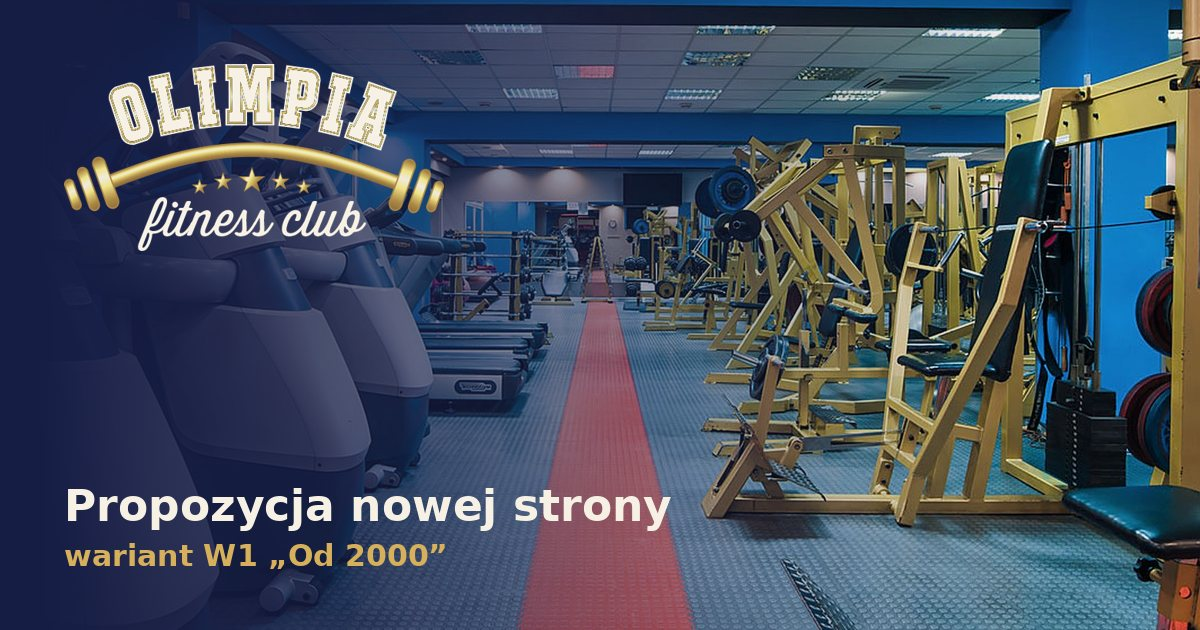
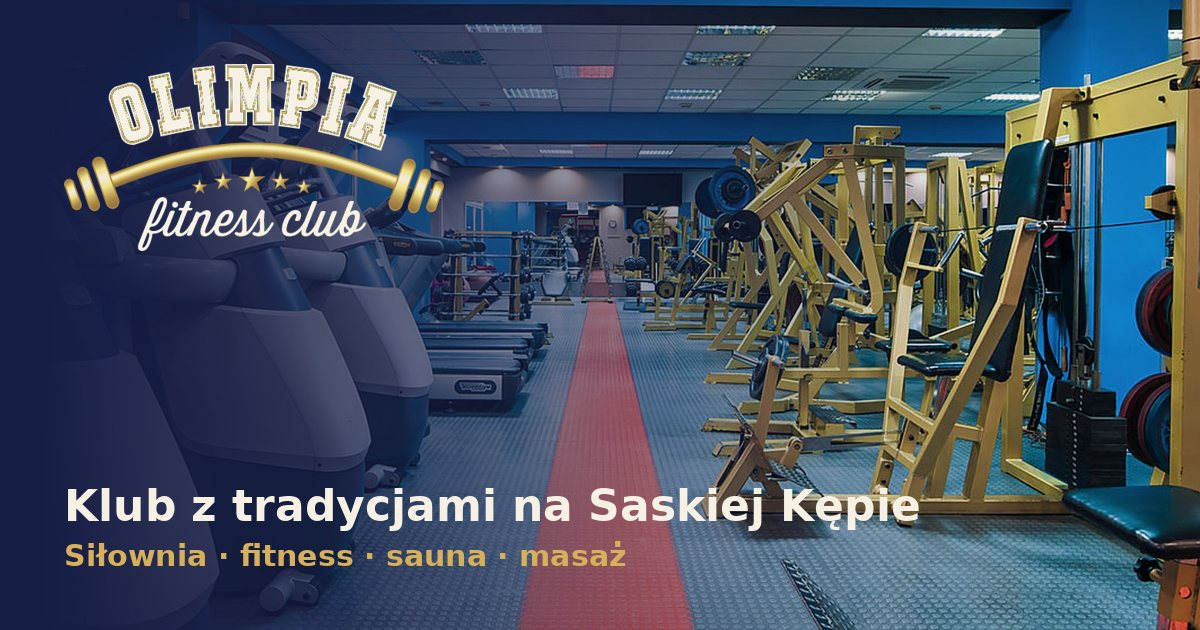
Olimpia: bez paska makiety, W1 jasne hero i grafitowe sekcje, W2 czerwone podswietlenia
Claude-Session: https://claude.ai/code/session_01LYNnrQKaKK6BP63vnqfLrJ

Changed region(s): [[0.0308, 0.754, 0.7708, 0.9048]]

diff --git a/p/olimpia-fitness-w1/index.html b/p/olimpia-fitness-w1/index.html
@@ -3,13 +3,13 @@
 <head>
 <meta charset="utf-8">
 <meta name="viewport" content="width=device-width,initial-scale=1">
-<title>Olimpia Fitness Club · makieta W1 „Od 2000”</title>
-<meta name="description" content="Propozycja nowej strony Olimpia Fitness Club: klub z tradycjami na Saskiej Kępie, siłownia, fitness, sauna i masaż od 2000 roku.">
+<title>Olimpia Fitness Club · siłownia, fitness i sauna na Saskiej Kępie</title>
+<meta name="description" content="Olimpia Fitness Club: klub z tradycjami na Saskiej Kępie w Warszawie. Siłownia, fitness, sauna, masaż i solarium od 2000 roku.">
 <meta name="robots" content="noindex,nofollow">
 <meta name="theme-color" content="#161d45">
 <meta property="og:type" content="website">
-<meta property="og:title" content="Olimpia Fitness Club · makieta W1 „Od 2000”">
-<meta property="og:description" content="Propozycja nowej strony Olimpia Fitness Club: klub z tradycjami na Saskiej Kępie, siłownia, fitness, sauna i masaż od 2000 roku.">
+<meta property="og:title" content="Olimpia Fitness Club · siłownia, fitness i sauna na Saskiej Kępie">
+<meta property="og:description" content="Olimpia Fitness Club: klub z tradycjami na Saskiej Kępie w Warszawie. Siłownia, fitness, sauna, masaż i solarium od 2000 roku.">
 <meta property="og:image" content="https://www.odnovastudio.com/p/olimpia-fitness-w1/a/og.jpg">
 <meta property="og:url" content="https://www.odnovastudio.com/p/olimpia-fitness-w1/">
 <link rel="icon" href="a/favicon.png" type="image/png">
@@ -108,33 +108,33 @@ html:not(.js) .mbar,.past-hero .mbar{transform:none}
 .foot .legal{grid-column:1/-1;display:flex;flex-wrap:wrap;gap:8px 24px;opacity:.7;font-size:.85rem;border-top:1px solid var(--line);padding-top:18px;margin-top:8px}
 @media(max-width:760px){.foot .wrap{grid-template-columns:1fr}}
 
-:root{--bg:#f3eee2;--bg2:#161d45;--ink:#161d45;--ink2:#f3eee2;--acc:#d3ab4e;--acc2:#e3c373;--onacc:#161d45;--gd:#755a12;--line:rgba(22,29,69,.2);--paper:#fffdf7;
---hdrbg:rgba(22,29,69,.96);--hdrbg2:#161d45;--hdrink:#f3eee2;--hdrline:rgba(243,238,226,.18);--disp:'Zilla Slab',Georgia,serif;--dispw:600;--sans:'Albert Sans',system-ui,sans-serif;--rad:3px}
+:root{--bg:#f3eee2;--bg2:#1c1a1e;--ink:#161d45;--ink2:#f3eee2;--acc:#d3ab4e;--acc2:#e3c373;--onacc:#161d45;--gd:#755a12;--line:rgba(22,29,69,.2);--paper:#fffdf7;
+--hdrbg:rgba(243,238,226,.97);--hdrbg2:#f3eee2;--hdrink:#161d45;--hdrline:rgba(22,29,69,.16);--disp:'Zilla Slab',Georgia,serif;--dispw:600;--sans:'Albert Sans',system-ui,sans-serif;--rad:3px}
 .sec{padding:clamp(60px,9vw,112px) 0}
 .sec.dark{background:var(--bg2);color:var(--ink2);--line:rgba(243,238,226,.22)}
 .h2{font-size:clamp(2.2rem,4.8vw,3.7rem);line-height:1.04;max-width:18ch;letter-spacing:.002em}
 .lead{font-size:clamp(1.06rem,1.4vw,1.24rem);max-width:56ch;margin-top:20px;opacity:.9}
 .btn.n,.sec:not(.dark) .btn.p,.form .btn.p{background:#161d45;color:#f3eee2}.btn.n:hover,.sec:not(.dark) .btn.p:hover,.form .btn.p:hover{background:#26306a}
-.dark .btn.g,.hero .btn.g{color:#f3eee2}
+.dark .btn.g{color:#f3eee2}
 .gold{color:var(--gd)}.dark .gold{color:var(--acc)}
 .arrow{display:inline-block;width:1.2em;height:.8em;vertical-align:-.05em;margin-left:.45em}
 a.more{display:inline-flex;align-items:center;font-weight:600;text-decoration:none;border-bottom:1.5px solid currentColor;padding-bottom:2px}
 /* HERO: obchód po klubie */
-.hero{position:relative;background:#161d45;color:#f6f1e4}
+.hero{position:relative;background:#f3eee2;color:#161d45}
 .js .hero{height:calc(100svh + 4 * 40svh)}
 .stage{position:sticky;top:0;height:100svh;min-height:560px;display:flex;flex-direction:column;padding-top:calc(var(--hdr-h,100px) + clamp(14px,2.4vh,30px));overflow:hidden}
 .hd{display:grid;grid-template-columns:minmax(0,1fr) auto;gap:14px clamp(24px,4vw,64px);align-items:end;padding-bottom:clamp(16px,2.8vh,30px)}
 .hd h1{font-size:clamp(2.4rem,4.7vw,4.4rem);line-height:1;white-space:nowrap}
 .hd .hl p{font-size:clamp(1.02rem,1.3vw,1.2rem);max-width:56ch;margin-top:12px;opacity:.95}
 .hd .hr{display:flex;flex-direction:column;align-items:flex-end;gap:14px}
-.hd .live{background:rgba(14,19,48,.55);border:1px solid rgba(243,238,226,.28);padding:7px 14px;border-radius:99px}
+.hd .live{background:#fffdf7;border:1px solid rgba(22,29,69,.2);padding:7px 14px;border-radius:99px}
 .hd .acts{display:flex;flex-wrap:wrap;gap:12px;justify-content:flex-end}
-.hd .acts .btn.g{border-color:rgba(246,241,228,.7)}
+.hd .acts .btn.g{border-color:#161d45;color:#161d45}.hd .acts .btn.g:hover{background:#161d45;color:#f3eee2}
 .slats{flex:1;min-height:0;display:flex;gap:6px;padding:0 clamp(16px,4vw,48px) clamp(16px,3.4vh,40px)}
-.sl{position:relative;flex:1 1 0;min-width:0;overflow:hidden;background:#0e1330}
+.sl{position:relative;flex:1 1 0;min-width:0;overflow:hidden;background:#1c1a1e;color:#f6f1e4}
 .sl img{position:absolute;inset:0;width:100%;height:100%;object-fit:cover;transform:scale(1.06)}
-.sl::before{content:"";position:absolute;inset:0;background:rgba(14,19,48,.58);transition:background .4s ease;z-index:1}
-.sl.on::before{background:linear-gradient(0deg,rgba(14,19,48,.88),rgba(14,19,48,.05) 62%)}
+.sl::before{content:"";position:absolute;inset:0;background:rgba(28,26,30,.55);transition:background .4s ease;z-index:1}
+.sl.on::before{background:linear-gradient(0deg,rgba(28,26,30,.88),rgba(28,26,30,.04) 62%)}
 .sl .no{position:absolute;left:18px;top:16px;z-index:2;font-size:.95rem;font-weight:600;font-variant-numeric:tabular-nums;text-shadow:0 1px 8px rgba(8,10,28,.7)}
 .sl b{position:absolute;z-index:2;font:600 1.6rem/1.1 var(--disp);white-space:nowrap;text-shadow:0 1px 10px rgba(8,10,28,.6);left:18px;bottom:18px;transition:opacity .3s}
 .sl small{position:absolute;z-index:2;left:18px;bottom:54px;max-width:36ch;font-size:1.02rem;opacity:0;transition:opacity .4s ease;text-shadow:0 1px 10px rgba(8,10,28,.7)}
@@ -151,9 +151,9 @@ html:not(.js) .sl{flex:1}html:not(.js) .sl b{writing-mode:horizontal-tb;transfor
  .sl b{font-size:1.4rem;left:16px;bottom:16px}.sl small{left:16px;bottom:48px;font-size:.95rem}.sl.on .no{top:14px;margin-top:0!important}}
 @media(prefers-reduced-motion:reduce){.js .hero{height:auto}.stage{position:relative;min-height:100svh}}
 /* BILET */
-.bilet{position:relative;overflow:hidden;background:#0e1330;color:#f6f1e4;padding:clamp(56px,9vw,112px) 0}
+.bilet{position:relative;overflow:hidden;background:#1c1a1e;color:#f6f1e4;padding:clamp(56px,9vw,112px) 0}
 .bilet .bgi{position:absolute;inset:-20px;opacity:.5;filter:blur(3px)}.bilet .bgi img{width:100%;height:100%;object-fit:cover}
-.bilet .bgi::after{content:"";position:absolute;inset:0;background:rgba(14,19,48,.62)}
+.bilet .bgi::after{content:"";position:absolute;inset:0;background:rgba(28,26,30,.64)}
 .bilet .wrap{position:relative;text-align:center}
 .bilet h2{font-size:clamp(2.2rem,4.4vw,3.8rem);max-width:20ch;margin:0 auto}
 .bilet .sub{margin:14px auto 0;max-width:46ch;font-size:1.12rem;opacity:.95}
@@ -182,7 +182,7 @@ html:not(.js) .sl{flex:1}html:not(.js) .sl b{writing-mode:horizontal-tb;transfor
 .zone{display:grid;grid-template-columns:7fr 5fr;gap:clamp(24px,5vw,80px);align-items:center;padding:clamp(24px,3.4vw,44px) 0;border-top:1px solid var(--line)}
 .zone:first-of-type{border-top:0;padding-top:clamp(30px,4vw,48px)}
 .zone:nth-of-type(even){grid-template-columns:5fr 7fr}.zone:nth-of-type(even) .ph{order:2}
-.zone .ph{aspect-ratio:3/2;overflow:hidden;position:relative;background:#0e1330}
+.zone .ph{aspect-ratio:3/2;overflow:hidden;position:relative;background:#1c1a1e}
 .zone .ph img{position:absolute;left:0;width:100%;height:116%;top:-8%;object-fit:cover;transform:translate3d(0,var(--py,0px),0)}
 .zone h3{font-size:clamp(2rem,3.6vw,3rem)}
 .zone p{margin-top:16px;font-size:1.08rem;max-width:46ch;opacity:.92}
@@ -253,9 +253,8 @@ html:not(.js) .sl{flex:1}html:not(.js) .sl b{writing-mode:horizontal-tb;transfor
 </head>
 <body>
 <div class="fixtop" id="top">
-<div class="mock"><b>MAKIETA</b> · propozycja nowej strony olimpiafitness.pl · wariant W1 „Od 2000” · ODNOVA Studio · treści i zdjęcia z obecnej strony</div>
 <header class="hdr"><div class="wrap">
-<a class="logo" href="#top" aria-label="Olimpia Fitness Club, początek strony"><img src="a/logo-light.png" alt="Olimpia Fitness Club" width="103" height="54"></a>
+<a class="logo" href="#top" aria-label="Olimpia Fitness Club, początek strony"><img src="a/logo-navy.png" alt="Olimpia Fitness Club" width="103" height="54"></a>
 <nav aria-label="Menu"><a href="#klub">O klubie</a><a href="#strefy">Strefy</a><a href="#cennik">Cennik</a><a href="#kontakt">Kontakt</a><a href="https://olimpiafitnessclub-warszawa.cms.efitness.com.pl/kalendarz-zajec" target="_blank" rel="noopener">Grafik zajęć</a></nav>
 <a class="tel" href="tel:+48226738734">(22) 673 87 34</a>
 <a class="btn p cta" href="https://olimpiafitnessclub-warszawa.cms.efitness.com.pl/kup-karnet" target="_blank" rel="noopener">Kup karnet</a>
@@ -322,7 +321,7 @@ html:not(.js) .sl{flex:1}html:not(.js) .sl b{writing-mode:horizontal-tb;transfor
 <label>Wiadomość<textarea name="msg" placeholder="Np. chcę wejść na próbę w sobotę"></textarea></label>
 <label class="chk"><input type="checkbox" name="rodo" required> Zgadzam się na kontakt w sprawie mojego zapytania (RODO).</label>
 <button class="btn p" type="submit">Umów wizytę próbną</button>
-<small>Makieta: formularz nie wysyła wiadomości.</small>
+<small>Formularz w wersji pokazowej nie wysyła wiadomości.</small>
 </form><iframe class="map" loading="lazy" title="Mapa dojazdu do Olimpia Fitness Club" src="https://www.google.com/maps?q=Al.+Stan%C3%B3w+Zjednoczonych+26A+Warszawa&output=embed"></iframe></div></div>
 <h2 class="h2" style="margin-top:clamp(56px,8vw,96px);font-size:clamp(1.8rem,3.2vw,2.6rem)">Najczęstsze pytania</h2>
 <div class="faq"><details><summary>Czy muszę podpisywać długą umowę?<svg viewBox="0 0 24 24" fill="none" stroke="currentColor" stroke-width="1.6" aria-hidden="true"><path d="M12 5v14M5 12h14"/></svg></summary><div class="a">Nie. Karnet Month obowiązuje 30 dni bez umowy. Flex to umowa na czas nieokreślony z miesięcznym wypowiedzeniem, a Open jest tańszy przy umowie na 12 miesięcy.</div></details><details><summary>Jak kupić karnet?<svg viewBox="0 0 24 24" fill="none" stroke="currentColor" stroke-width="1.6" aria-hidden="true"><path d="M12 5v14M5 12h14"/></svg></summary><div class="a">Online w systemie klubu (przycisk „Kup karnet”) albo na miejscu w recepcji. Przy pierwszym karnecie jednorazowo płacisz 40 zł za wydanie karty klubowej.</div></details><details><summary>Czy honorujecie Multisport?<svg viewBox="0 0 24 24" fill="none" stroke="currentColor" stroke-width="1.6" aria-hidden="true"><path d="M12 5v14M5 12h14"/></svg></summary><div class="a">Tak, akceptujemy Multisport, Fit Profit i Medicover Sport. Wyjątkiem są zajęcia Jumping Fitness, na których karty partnerskie nie obowiązują.</div></details><details><summary>Co zabrać na pierwszy trening?<svg viewBox="0 0 24 24" fill="none" stroke="currentColor" stroke-width="1.6" aria-hidden="true"><path d="M12 5v14M5 12h14"/></svg></summary><div class="a">Strój sportowy, mały ręcznik i buty sportowe na zmianę. Na salę wchodzi się w czystym, zmienionym obuwiu.</div></details><details><summary>Jak do Was dojechać?<svg viewBox="0 0 24 24" fill="none" stroke="currentColor" stroke-width="1.6" aria-hidden="true"><path d="M12 5v14M5 12h14"/></svg></summary><div class="a">Samochodem najłatwiej od ul. Afrykańskiej, wzdłuż której jest parking. Autobusem do przystanku Międzynarodowa 02 na Al. Stanów Zjednoczonych, można też dojść od ul. Lizbońskiej.</div></details><details><summary>Gdzie sprawdzę grafik zajęć?<svg viewBox="0 0 24 24" fill="none" stroke="currentColor" stroke-width="1.6" aria-hidden="true"><path d="M12 5v14M5 12h14"/></svg></summary><div class="a">W kalendarzu zajęć w systemie klubu. Zapiszesz się tam od razu, także z telefonu.</div></details></div>
@@ -330,7 +329,7 @@ html:not(.js) .sl{flex:1}html:not(.js) .sl b{writing-mode:horizontal-tb;transfor
 <div><a class="logo" href="#top"><img src="a/logo-light.png" alt="Olimpia Fitness Club" width="122" height="64"></a><p>Klub z tradycjami na Pradze Południe od 2000 roku.</p><p style="margin-top:10px"><a href="tel:+48226738734">(22) 673 87 34</a> · <a href="mailto:info@olimpiafitness.pl">info@olimpiafitness.pl</a></p></div>
 <ul><li><a href="#klub">O klubie</a></li><li><a href="#strefy">Strefy</a></li><li><a href="#cennik">Cennik</a></li><li><a href="#kontakt">Kontakt</a></li><li><a href="https://olimpiafitnessclub-warszawa.cms.efitness.com.pl/kalendarz-zajec" target="_blank" rel="noopener">Grafik zajęć</a></li></ul>
 <ul><li><a href="https://olimpiafitnessclub-warszawa.cms.efitness.com.pl/Login/SystemLogin?returnurl=https://olimpiafitnessclub-warszawa.cms.efitness.com.pl/strefa-klienta" target="_blank" rel="noopener">Strefa klienta</a></li><li><a href="https://olimpiafitness.pl/regulamin/" target="_blank" rel="noopener">Regulamin klubu</a></li><li><a href="https://olimpiafitness.pl/rodo/" target="_blank" rel="noopener">RODO</a></li><li><a href="https://www.facebook.com/Olimpia-Fitness-Club-153450561337305/" target="_blank" rel="noopener">Facebook</a></li></ul>
-<div class="legal"><span>© 2026 NET TRADE Robert Lendzion</span><span>Al. Stanów Zjednoczonych 26A, 03-964 Warszawa</span><span>NIP 524 256 40 68</span><span>Projekt makiety: ODNOVA Studio</span></div>
+<div class="legal"><span>© 2026 NET TRADE Robert Lendzion</span><span>Al. Stanów Zjednoczonych 26A, 03-964 Warszawa</span><span>NIP 524 256 40 68</span><span>Projekt strony: ODNOVA Studio</span></div>
 </div></footer><script>
 (function(){
 var d=document,hdr=d.getElementById('top');

diff --git a/p/olimpia-fitness-w2/index.html b/p/olimpia-fitness-w2/index.html
@@ -3,13 +3,13 @@
 <head>
 <meta charset="utf-8">
 <meta name="viewport" content="width=device-width,initial-scale=1">
-<title>Olimpia Fitness Club · makieta W2 „Dziś otwarte”</title>
-<meta name="description" content="Propozycja nowej strony Olimpia Fitness Club: siłownia, fitness, sauna i masaż na Saskiej Kępie, godziny otwarcia na żywo i przejrzysty cennik.">
+<title>Olimpia Fitness Club · siłownia i fitness na Saskiej Kępie</title>
+<meta name="description" content="Olimpia Fitness Club: siłownia, fitness, sauna i masaż na Saskiej Kępie w Warszawie. Godziny otwarcia na żywo i przejrzysty cennik.">
 <meta name="robots" content="noindex,nofollow">
 <meta name="theme-color" content="#f4f5f8">
 <meta property="og:type" content="website">
-<meta property="og:title" content="Olimpia Fitness Club · makieta W2 „Dziś otwarte”">
-<meta property="og:description" content="Propozycja nowej strony Olimpia Fitness Club: siłownia, fitness, sauna i masaż na Saskiej Kępie, godziny otwarcia na żywo i przejrzysty cennik.">
+<meta property="og:title" content="Olimpia Fitness Club · siłownia i fitness na Saskiej Kępie">
+<meta property="og:description" content="Olimpia Fitness Club: siłownia, fitness, sauna i masaż na Saskiej Kępie w Warszawie. Godziny otwarcia na żywo i przejrzysty cennik.">
 <meta property="og:image" content="https://www.odnovastudio.com/p/olimpia-fitness-w2/a/og.jpg">
 <meta property="og:url" content="https://www.odnovastudio.com/p/olimpia-fitness-w2/">
 <link rel="icon" href="a/favicon.png" type="image/png">
@@ -223,6 +223,8 @@ h1,h2,h3,.h2{text-transform:uppercase;letter-spacing:.005em}
 .foot{background:var(--bg2);color:var(--ink2);--line:rgba(244,245,248,.2)}
 
 /* EFEKTY */
+.hdr nav a{transition:color .2s ease,box-shadow .2s ease,background .2s ease}.hdr nav a:hover{color:var(--acc);box-shadow:inset 0 -2px 0 var(--acc)}
+.hdr .tel:hover{color:var(--acc)}
 .hero h1,.hero .sub,.hero .acts,.hero .week{will-change:transform}
 .hero .vis .a,.hero .vis .b{box-shadow:0 30px 60px -28px rgba(15,21,48,.55)}
 .vis .a img,.vis .b img{transform:scale(1.08)}
@@ -249,14 +251,14 @@ h1,h2,h3,.h2{text-transform:uppercase;letter-spacing:.005em}
 /* hover: cennik i listy */
 .tab tbody tr{transition:background .25s ease}
 .tab tbody tr td{transition:background .25s ease,color .25s ease,transform .25s ease,box-shadow .25s ease}
-.tab tbody tr:hover td{background:rgba(15,21,48,.05)}
-.tab tbody tr.top:hover td{background:rgba(193,18,31,.12)}
+.tab tbody tr:hover td{background:rgba(193,18,31,.075)}
+.tab tbody tr.top:hover td{background:rgba(193,18,31,.14)}
 .tab tbody tr:hover td.n{color:var(--acc);transform:translateX(8px)}
 .tab tbody tr td:first-child{box-shadow:inset 0 0 0 var(--acc)}
 .tab tbody tr:hover td:first-child{box-shadow:inset 4px 0 0 var(--acc)}
 .tab tbody tr:hover td.c{transform:scale(1.04);transform-origin:right center}
 @media(max-width:760px){.tab tbody tr:hover td{background:none}.tab tbody tr:hover td.n{transform:none}.tab tbody tr:hover td.c{transform:none}}
-.pl li{transition:padding .25s ease,background .25s ease}.pl li:hover{background:rgba(15,21,48,.045);padding-inline:10px}
+.pl li{transition:padding .25s ease,background .25s ease}.pl li:hover{background:rgba(193,18,31,.075);padding-inline:10px}
 .pl li:hover b{color:var(--acc)}
 .zc{transition:transform .35s cubic-bezier(.22,.61,.36,1),box-shadow .35s ease}
 .zc:hover{box-shadow:0 26px 50px -30px rgba(15,21,48,.6)}
@@ -280,7 +282,6 @@ h1,h2,h3,.h2{text-transform:uppercase;letter-spacing:.005em}
 </head>
 <body>
 <div class="fixtop" id="top">
-<div class="mock"><b>MAKIETA</b> · propozycja nowej strony olimpiafitness.pl · wariant W2 „Dziś otwarte” · ODNOVA Studio · treści i zdjęcia z obecnej strony</div>
 <header class="hdr"><div class="wrap">
 <a class="logo" href="#top" aria-label="Olimpia Fitness Club, początek strony"><img src="a/logo-navy.png" alt="Olimpia Fitness Club" width="103" height="54"></a>
 <nav aria-label="Menu"><a href="#strefy">Strefy</a><a href="#cennik">Cennik</a><a href="#klub">O klubie</a><a href="#opinie">Opinie</a><a href="#kontakt">Kontakt</a><a href="https://olimpiafitnessclub-warszawa.cms.efitness.com.pl/kalendarz-zajec" target="_blank" rel="noopener">Grafik zajęć</a></nav>
@@ -341,7 +342,7 @@ h1,h2,h3,.h2{text-transform:uppercase;letter-spacing:.005em}
 <label>Wiadomość<textarea name="msg" placeholder="Np. chcę wejść na próbę w sobotę"></textarea></label>
 <label class="chk"><input type="checkbox" name="rodo" required> Zgadzam się na kontakt w sprawie mojego zapytania (RODO).</label>
 <button class="btn p" type="submit">Umów wizytę próbną</button>
-<small>Makieta: formularz nie wysyła wiadomości.</small>
+<small>Formularz w wersji pokazowej nie wysyła wiadomości.</small>
 </form><iframe class="map" loading="lazy" title="Mapa dojazdu do Olimpia Fitness Club" src="https://www.google.com/maps?q=Al.+Stan%C3%B3w+Zjednoczonych+26A+Warszawa&output=embed"></iframe></div></div>
 <h2 class="h2" style="margin-top:clamp(56px,8vw,96px);font-size:clamp(2.2rem,4vw,3.2rem)">Najczęstsze pytania</h2>
 <div class="faq"><details><summary>Czy muszę podpisywać długą umowę?<svg viewBox="0 0 24 24" fill="none" stroke="currentColor" stroke-width="1.6" aria-hidden="true"><path d="M12 5v14M5 12h14"/></svg></summary><div class="a">Nie. Karnet Month obowiązuje 30 dni bez umowy. Flex to umowa na czas nieokreślony z miesięcznym wypowiedzeniem, a Open jest tańszy przy umowie na 12 miesięcy.</div></details><details><summary>Jak kupić karnet?<svg viewBox="0 0 24 24" fill="none" stroke="currentColor" stroke-width="1.6" aria-hidden="true"><path d="M12 5v14M5 12h14"/></svg></summary><div class="a">Online w systemie klubu (przycisk „Kup karnet”) albo na miejscu w recepcji. Przy pierwszym karnecie jednorazowo płacisz 40 zł za wydanie karty klubowej.</div></details><details><summary>Czy honorujecie Multisport?<svg viewBox="0 0 24 24" fill="none" stroke="currentColor" stroke-width="1.6" aria-hidden="true"><path d="M12 5v14M5 12h14"/></svg></summary><div class="a">Tak, akceptujemy Multisport, Fit Profit i Medicover Sport. Wyjątkiem są zajęcia Jumping Fitness, na których karty partnerskie nie obowiązują.</div></details><details><summary>Co zabrać na pierwszy trening?<svg viewBox="0 0 24 24" fill="none" stroke="currentColor" stroke-width="1.6" aria-hidden="true"><path d="M12 5v14M5 12h14"/></svg></summary><div class="a">Strój sportowy, mały ręcznik i buty sportowe na zmianę. Na salę wchodzi się w czystym, zmienionym obuwiu.</div></details><details><summary>Jak do Was dojechać?<svg viewBox="0 0 24 24" fill="none" stroke="currentColor" stroke-width="1.6" aria-hidden="true"><path d="M12 5v14M5 12h14"/></svg></summary><div class="a">Samochodem najłatwiej od ul. Afrykańskiej, wzdłuż której jest parking. Autobusem do przystanku Międzynarodowa 02 na Al. Stanów Zjednoczonych, można też dojść od ul. Lizbońskiej.</div></details><details><summary>Gdzie sprawdzę grafik zajęć?<svg viewBox="0 0 24 24" fill="none" stroke="currentColor" stroke-width="1.6" aria-hidden="true"><path d="M12 5v14M5 12h14"/></svg></summary><div class="a">W kalendarzu zajęć w systemie klubu. Zapiszesz się tam od razu, także z telefonu.</div></details></div>
@@ -349,7 +350,7 @@ h1,h2,h3,.h2{text-transform:uppercase;letter-spacing:.005em}
 <div><a class="logo" href="#top"><img src="a/logo-light.png" alt="Olimpia Fitness Club" width="122" height="64"></a><p>Klub z tradycjami na Pradze Południe od 2000 roku.</p><p style="margin-top:10px"><a href="tel:+48226738734">(22) 673 87 34</a> · <a href="mailto:info@olimpiafitness.pl">info@olimpiafitness.pl</a></p></div>
 <ul><li><a href="#klub">O klubie</a></li><li><a href="#strefy">Strefy</a></li><li><a href="#cennik">Cennik</a></li><li><a href="#kontakt">Kontakt</a></li><li><a href="https://olimpiafitnessclub-warszawa.cms.efitness.com.pl/kalendarz-zajec" target="_blank" rel="noopener">Grafik zajęć</a></li></ul>
 <ul><li><a href="https://olimpiafitnessclub-warszawa.cms.efitness.com.pl/Login/SystemLogin?returnurl=https://olimpiafitnessclub-warszawa.cms.efitness.com.pl/strefa-klienta" target="_blank" rel="noopener">Strefa klienta</a></li><li><a href="https://olimpiafitness.pl/regulamin/" target="_blank" rel="noopener">Regulamin klubu</a></li><li><a href="https://olimpiafitness.pl/rodo/" target="_blank" rel="noopener">RODO</a></li><li><a href="https://www.facebook.com/Olimpia-Fitness-Club-153450561337305/" target="_blank" rel="noopener">Facebook</a></li></ul>
-<div class="legal"><span>© 2026 NET TRADE Robert Lendzion</span><span>Al. Stanów Zjednoczonych 26A, 03-964 Warszawa</span><span>NIP 524 256 40 68</span><span>Projekt makiety: ODNOVA Studio</span></div>
+<div class="legal"><span>© 2026 NET TRADE Robert Lendzion</span><span>Al. Stanów Zjednoczonych 26A, 03-964 Warszawa</span><span>NIP 524 256 40 68</span><span>Projekt strony: ODNOVA Studio</span></div>
 </div></footer><script>
 (function(){
 var d=document,hdr=d.getElementById('top');
